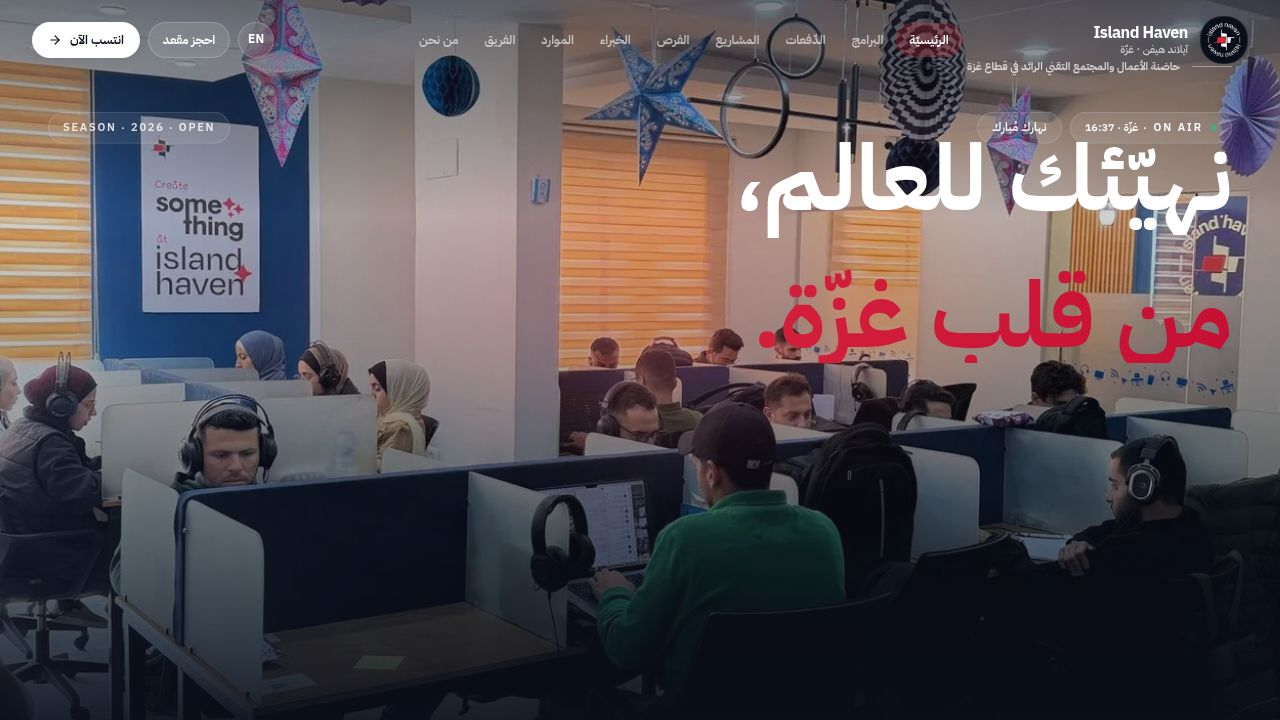
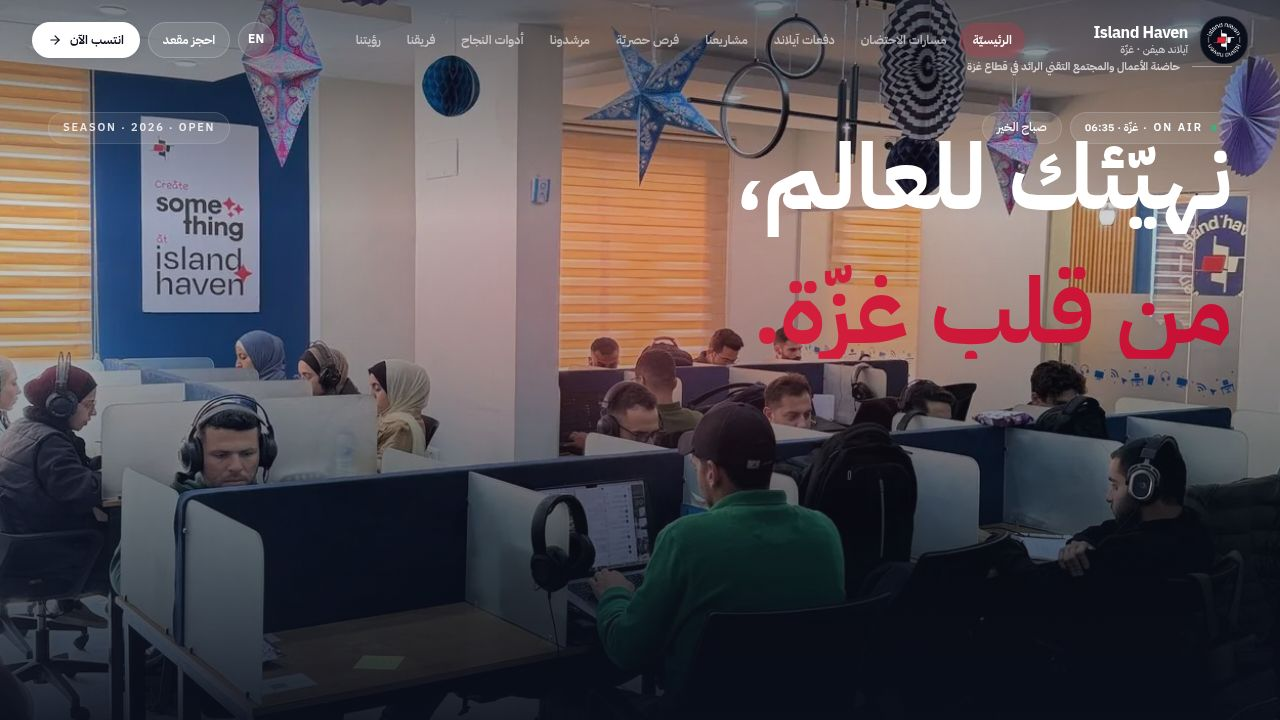
feat: expert full-profile modal in booking flow (task #113)
The ExpertProfileModal was partially in place; this task wires it up
fully and adds the missing profile fields that the API returns.

Changes to artifacts/ih-haven/src/pages/Book.tsx:

1. ExpertOption interface: added sessionMinutes and availabilityNote
   fields so the data the API already returns is surfaced in the UI.

2. ExpertProfileModal – new detail rows:
   - Session duration row (Clock icon): "45-minute session" /
     "جلسة مدّتها 45 دقيقة" — shown when sessionMinutes > 0
   - Availability note row (Info icon): free-text note the expert sets
     (e.g. "Available Tuesday evenings only") — shown when present

3. Expert card tap affordance: replaced the bare translucent Info icon
   with a small labeled pill ("ⓘ profile" / "ⓘ الملف") so users know
   the card is tappable to view the full profile before picking.

Full modal already in place covers: avatar, name, headline, years of
experience, expertise tags, full bio, languages, LinkedIn/website links,
session duration, availability note, and a Pick/Deselect CTA.
Close paths: ✕ button, backdrop click, Escape key.
Bilingual: all new strings use inline lang === "en" ? ... : ... pattern
consistent with Book.tsx conventions.
TypeScript: tsc --noEmit passes with no errors.

Replit-Task-Id: db09459f-1a83-496e-b113-e2326e82a44e

diff --git a/artifacts/ih-haven/src/pages/Book.tsx b/artifacts/ih-haven/src/pages/Book.tsx
@@ -44,6 +44,8 @@ interface ExpertOption {
   linkedinUrl: string | null;
   websiteUrl: string | null;
   acceptingSessions: boolean;
+  sessionMinutes: number | null;
+  availabilityNote: string | null;
 }
 
 const TIME_SLOTS = [
@@ -817,6 +819,17 @@ function ExpertProfileModal({
             </p>
           )}
 
+          {(expert.sessionMinutes != null && expert.sessionMinutes > 0) && (
+            <div className="flex items-center gap-2 text-[12px] text-white/45">
+              <Clock className="w-3.5 h-3.5 shrink-0 text-white/30" />
+              <span className="text-white/60">
+                {lang === "en"
+                  ? `${expert.sessionMinutes}-minute session`
+                  : `جلسة مدّتها ${expert.sessionMinutes} دقيقة`}
+              </span>
+            </div>
+          )}
+
           {expert.languages && (
             <div className="flex items-center gap-2 text-[12px] text-white/45">
               <MessageSquare className="w-3.5 h-3.5 shrink-0 text-white/30" />
@@ -824,6 +837,13 @@ function ExpertProfileModal({
                 {lang === "en" ? "Languages: " : "اللغات: "}
                 <span className="text-white/60">{expert.languages}</span>
               </span>
+            </div>
+          )}
+
+          {expert.availabilityNote && (
+            <div className="flex items-start gap-2 text-[12px] text-white/45">
+              <Info className="w-3.5 h-3.5 shrink-0 text-white/30 mt-0.5" />
+              <span className="text-white/55 leading-relaxed">{expert.availabilityNote}</span>
             </div>
           )}
 
@@ -1055,7 +1075,10 @@ function StepExpert({
                         : `${slotCount.toLocaleString("ar-EG-u-nu-arab")} موعد`}
                     </span>
                   )}
-                  <Info className="absolute bottom-2.5 end-2.5 w-3.5 h-3.5 text-white/25" />
+                  <span className="absolute bottom-2 end-2 flex items-center gap-0.5 px-1.5 py-0.5 rounded-full bg-white/[0.06] border border-white/[0.09] text-white/30 text-[9.5px] font-medium leading-none pointer-events-none">
+                    <Info className="w-2.5 h-2.5 shrink-0" />
+                    {lang === "en" ? "profile" : "الملف"}
+                  </span>
                   <div className="flex items-center gap-3">
                     {e.avatarUrl ? (
                       <img